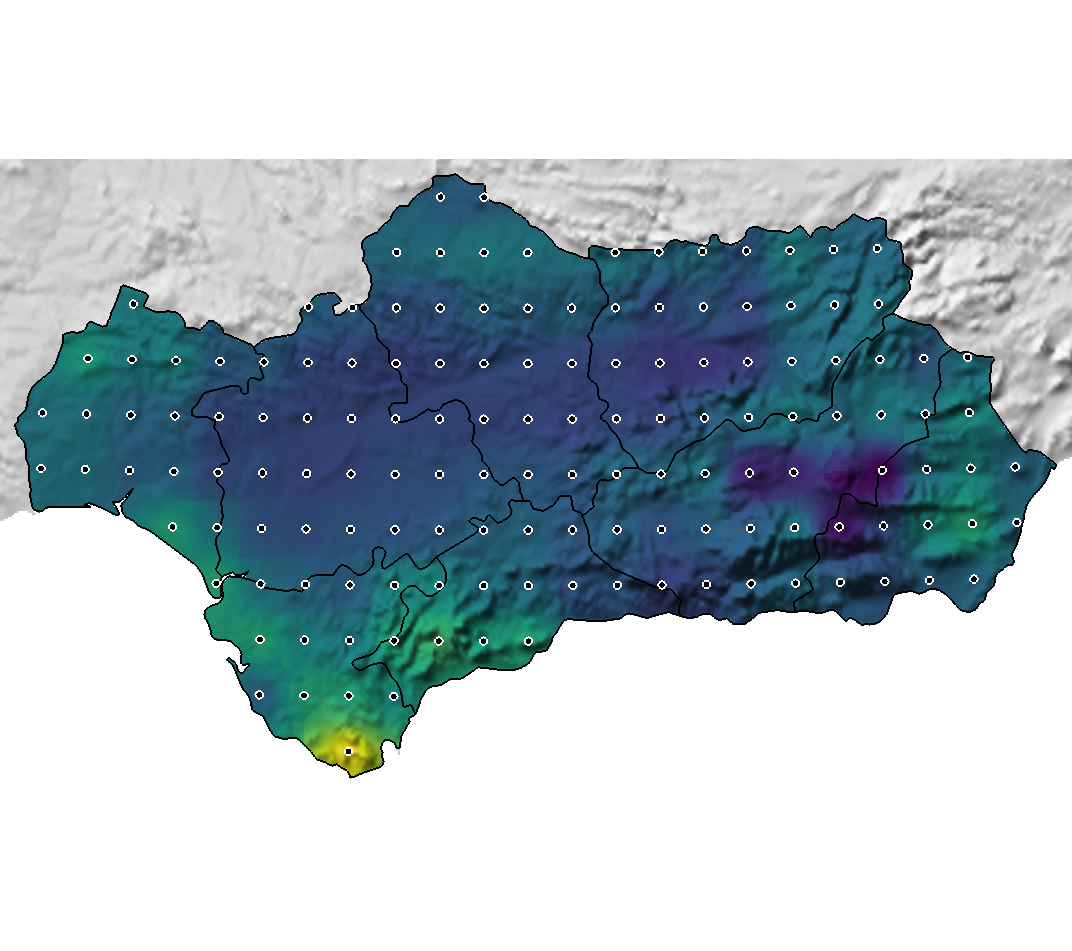
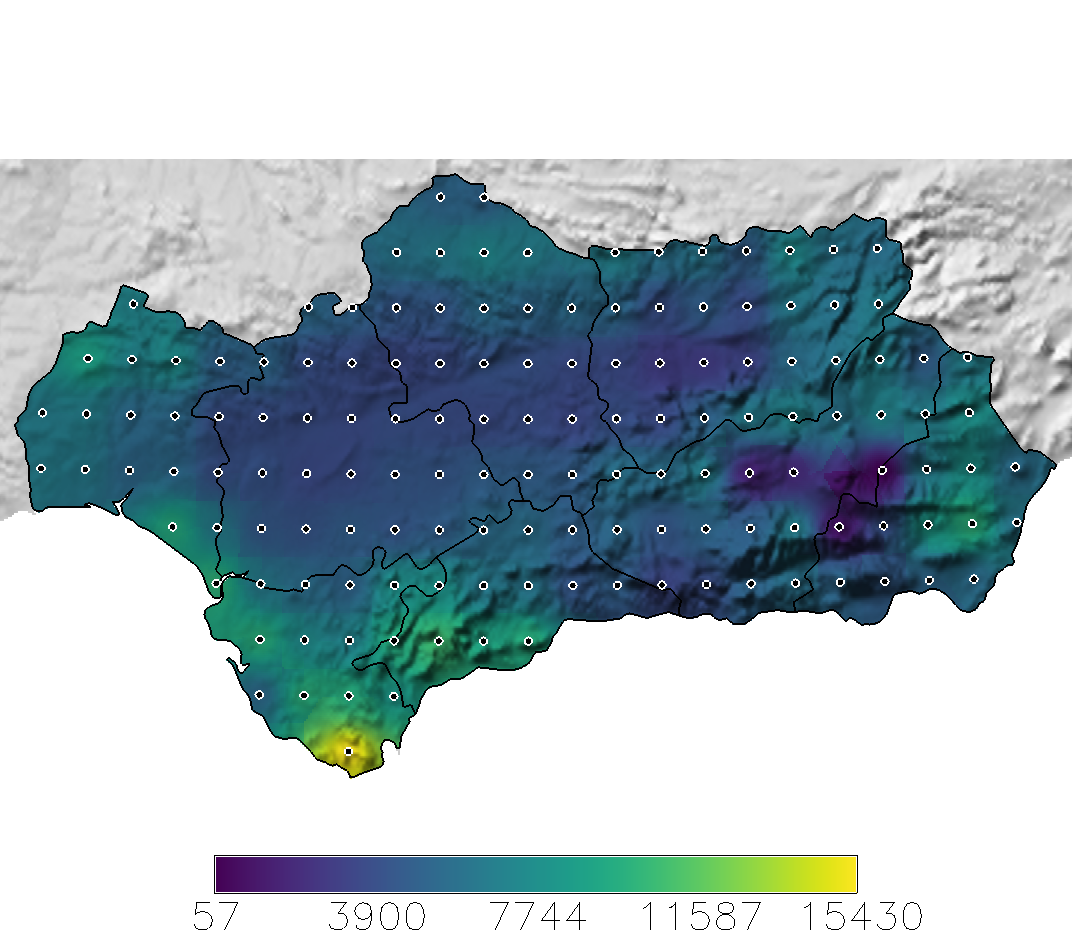
Drafted legend functionality

Changed region(s): [[0.1847, 0.8843, 0.8004, 0.9453]]

diff --git a/casas_gis/grass.py b/casas_gis/grass.py
@@ -237,6 +237,12 @@ def make_png_maps(extension: str,
                   fig_height: float,
                   background_color: Optional[str] = k.NO_BG_COLOR):
     """ Cycle through interpolated surfaces and generate maps. """
+    monitor = grass.read_command("d.mon", flags="p", quiet=True).strip()
+    print("This is current monintor: ", monitor)
+    print("This length of monintor var: ", len(monitor))
+    # if len(monitor) < 1:
+    #     print("No monitor running: ", monitor)
+    #     grass.run_command("d.mon", stop=extension)
     mapping_mapset = k.mapping_session["mapset"]
     sel_vector_list = get_map_list_from_pattern(
         map_type="vector",
@@ -259,6 +265,9 @@ def make_png_maps(extension: str,
                           height=fig_height,
                           bgcolor=background_color,
                           output=outfile)
+        monitor = grass.read_command("d.mon", flags="p", quiet=True).strip()
+        print("This is current monintor: ", monitor)
+        # breakpoint()
         grass.run_command("d.his",
                           i="SR_HR_andalusia_clip_250m",
                           h=idw_raster)
@@ -275,7 +284,9 @@ def make_png_maps(extension: str,
                           icon="basic/point",
                           size=15,
                           width=2)
-        # Legned?
+        draw_map_legend(extension=extension,
+                        map_name=idw_raster)
+        # breakpoint()
         grass.run_command("d.mon", stop=extension)
     for bspline_raster, sel_vector in zip(bspline_rasters_list,
                                           sel_vector_list):
@@ -352,10 +363,15 @@ def get_map_list_from_pattern(map_type: str,
 
 
 def draw_map_legend(extension: str,
-                    ):
+                    map_name: str):
     if extension == "png":
-        pass
-
+        grass.run_command("d.legend",
+                          flags="s",
+                          raster=map_name,
+                          color="black",
+                          labelnum=5,
+                          at=(6, 10, 20, 80)
+                          )
     elif extension == "ps":
         pass
 
@@ -395,4 +411,5 @@ if __name__ == "__main__":
         fig_width, fig_height = set_output_image(2)
         make_maps(fig_width,
                   fig_height,
+                  background_color="white",
                   file_types=["png", "ps"])
